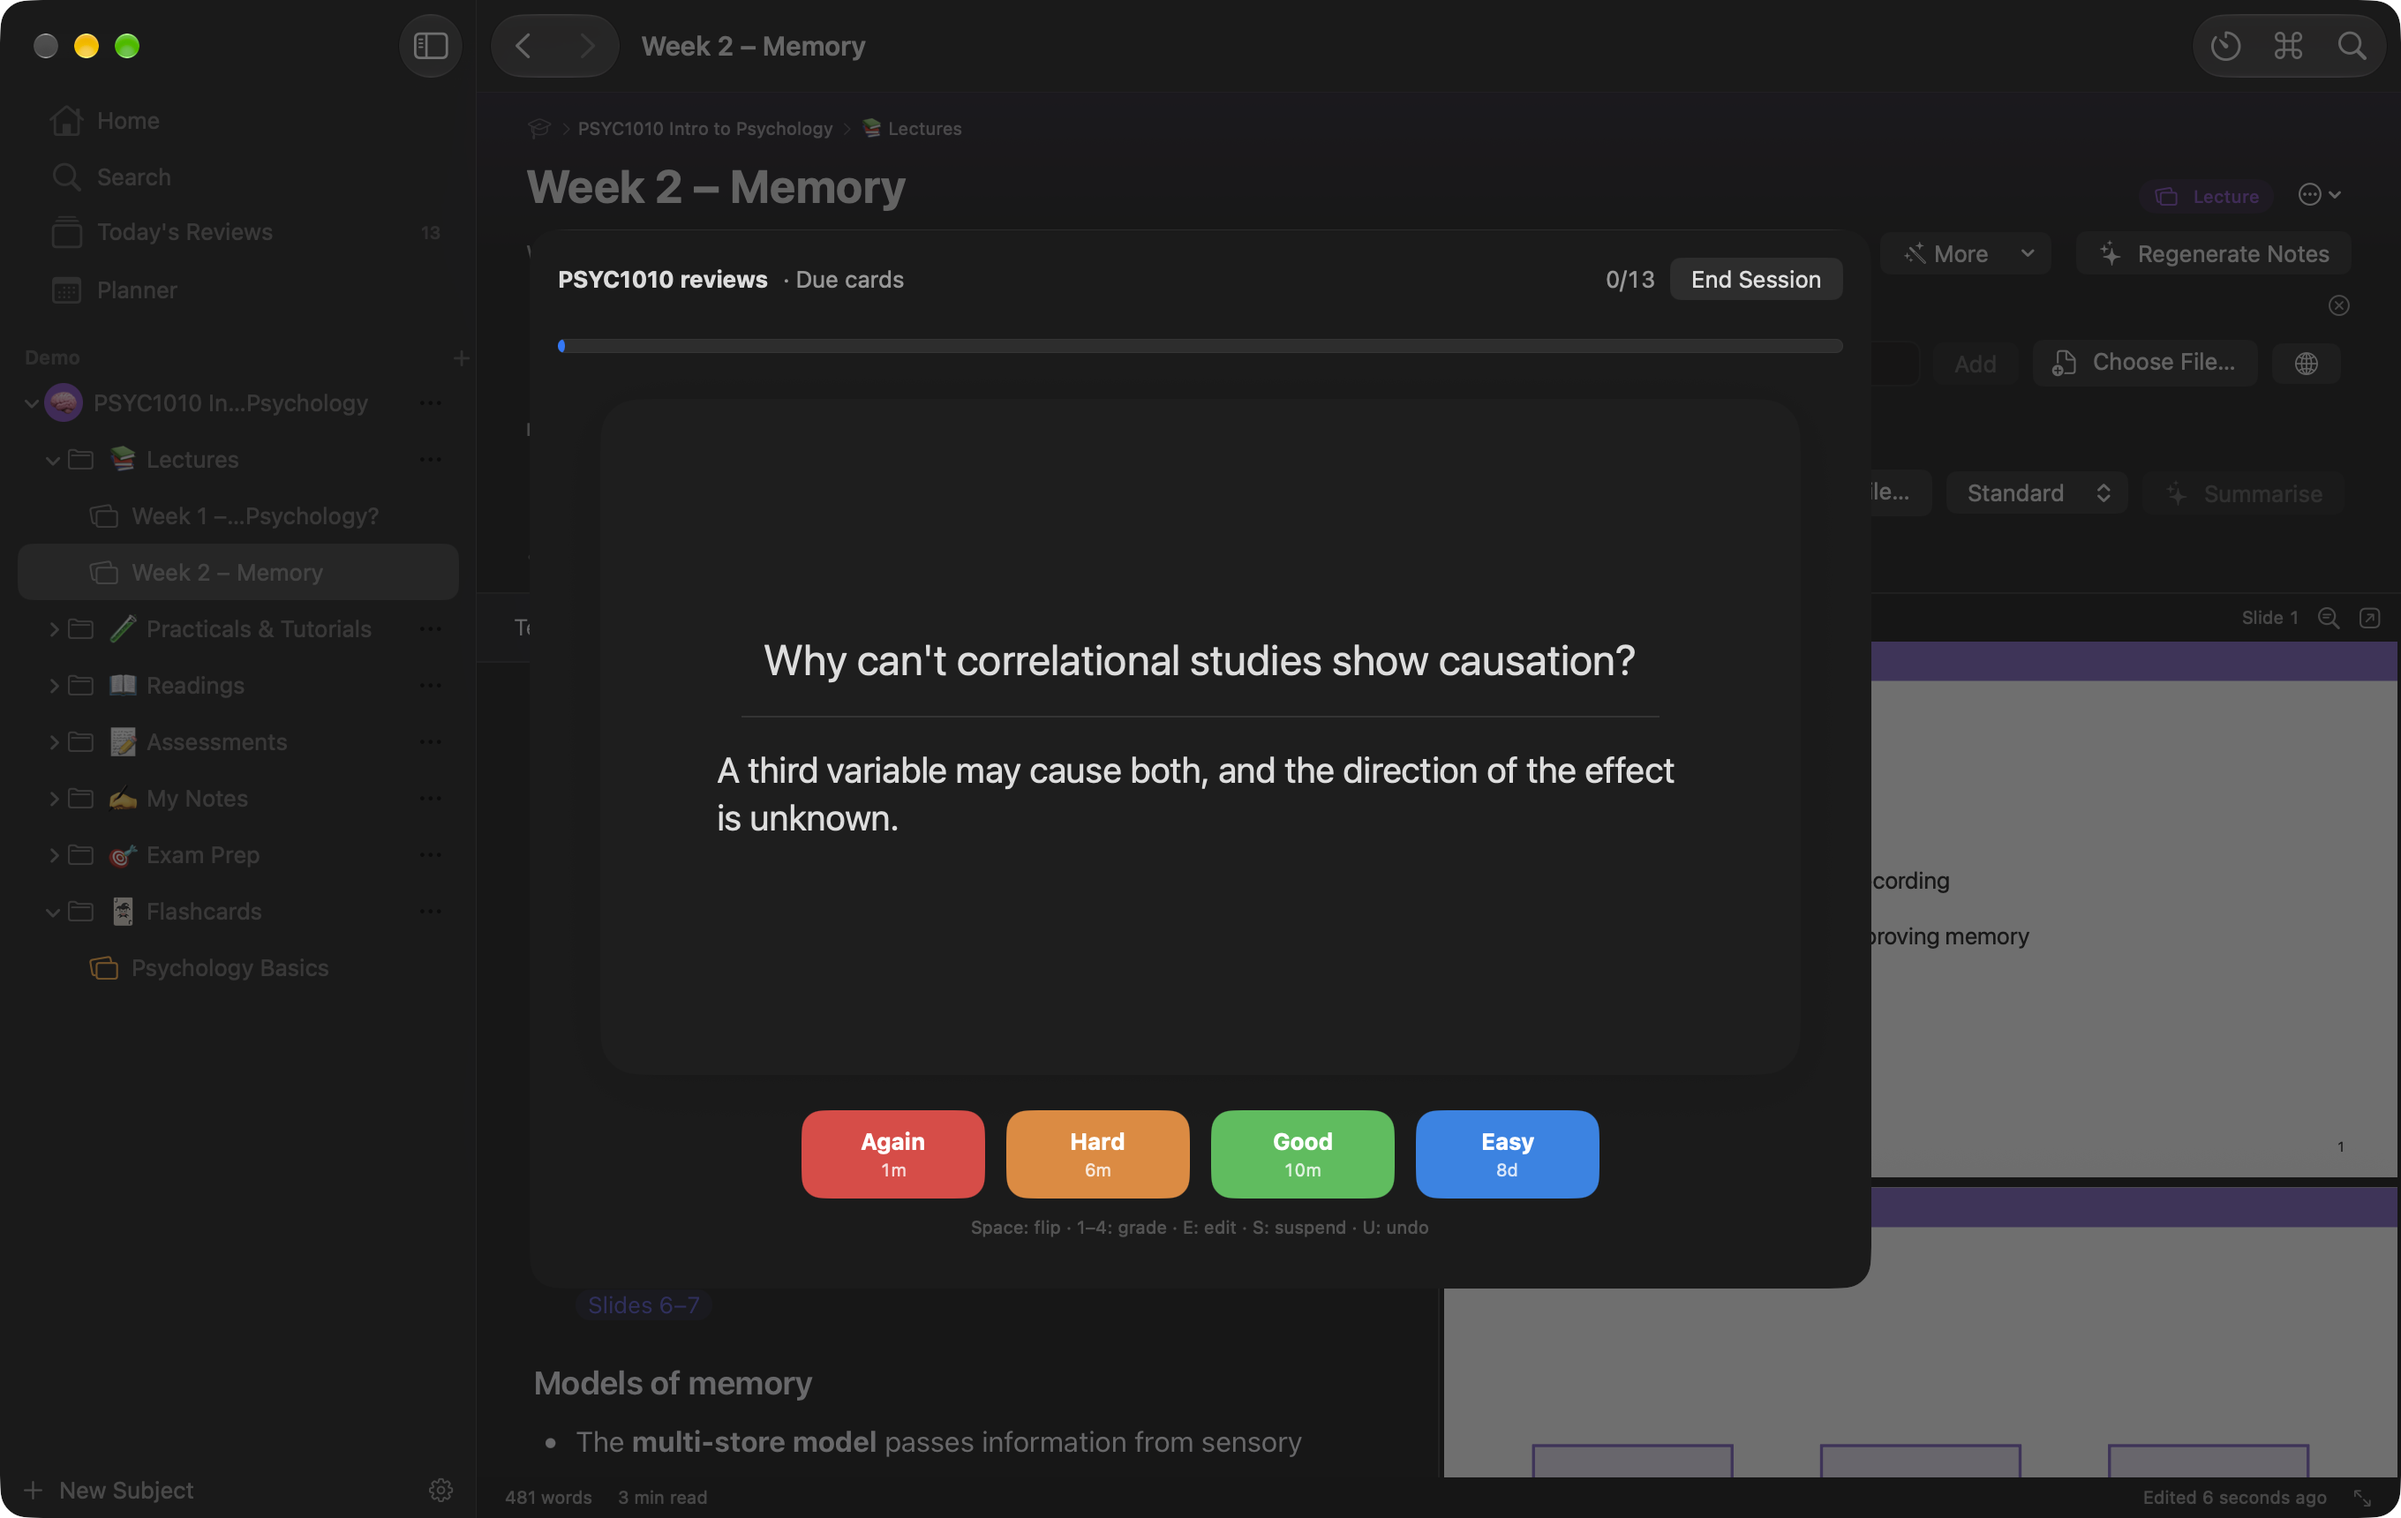
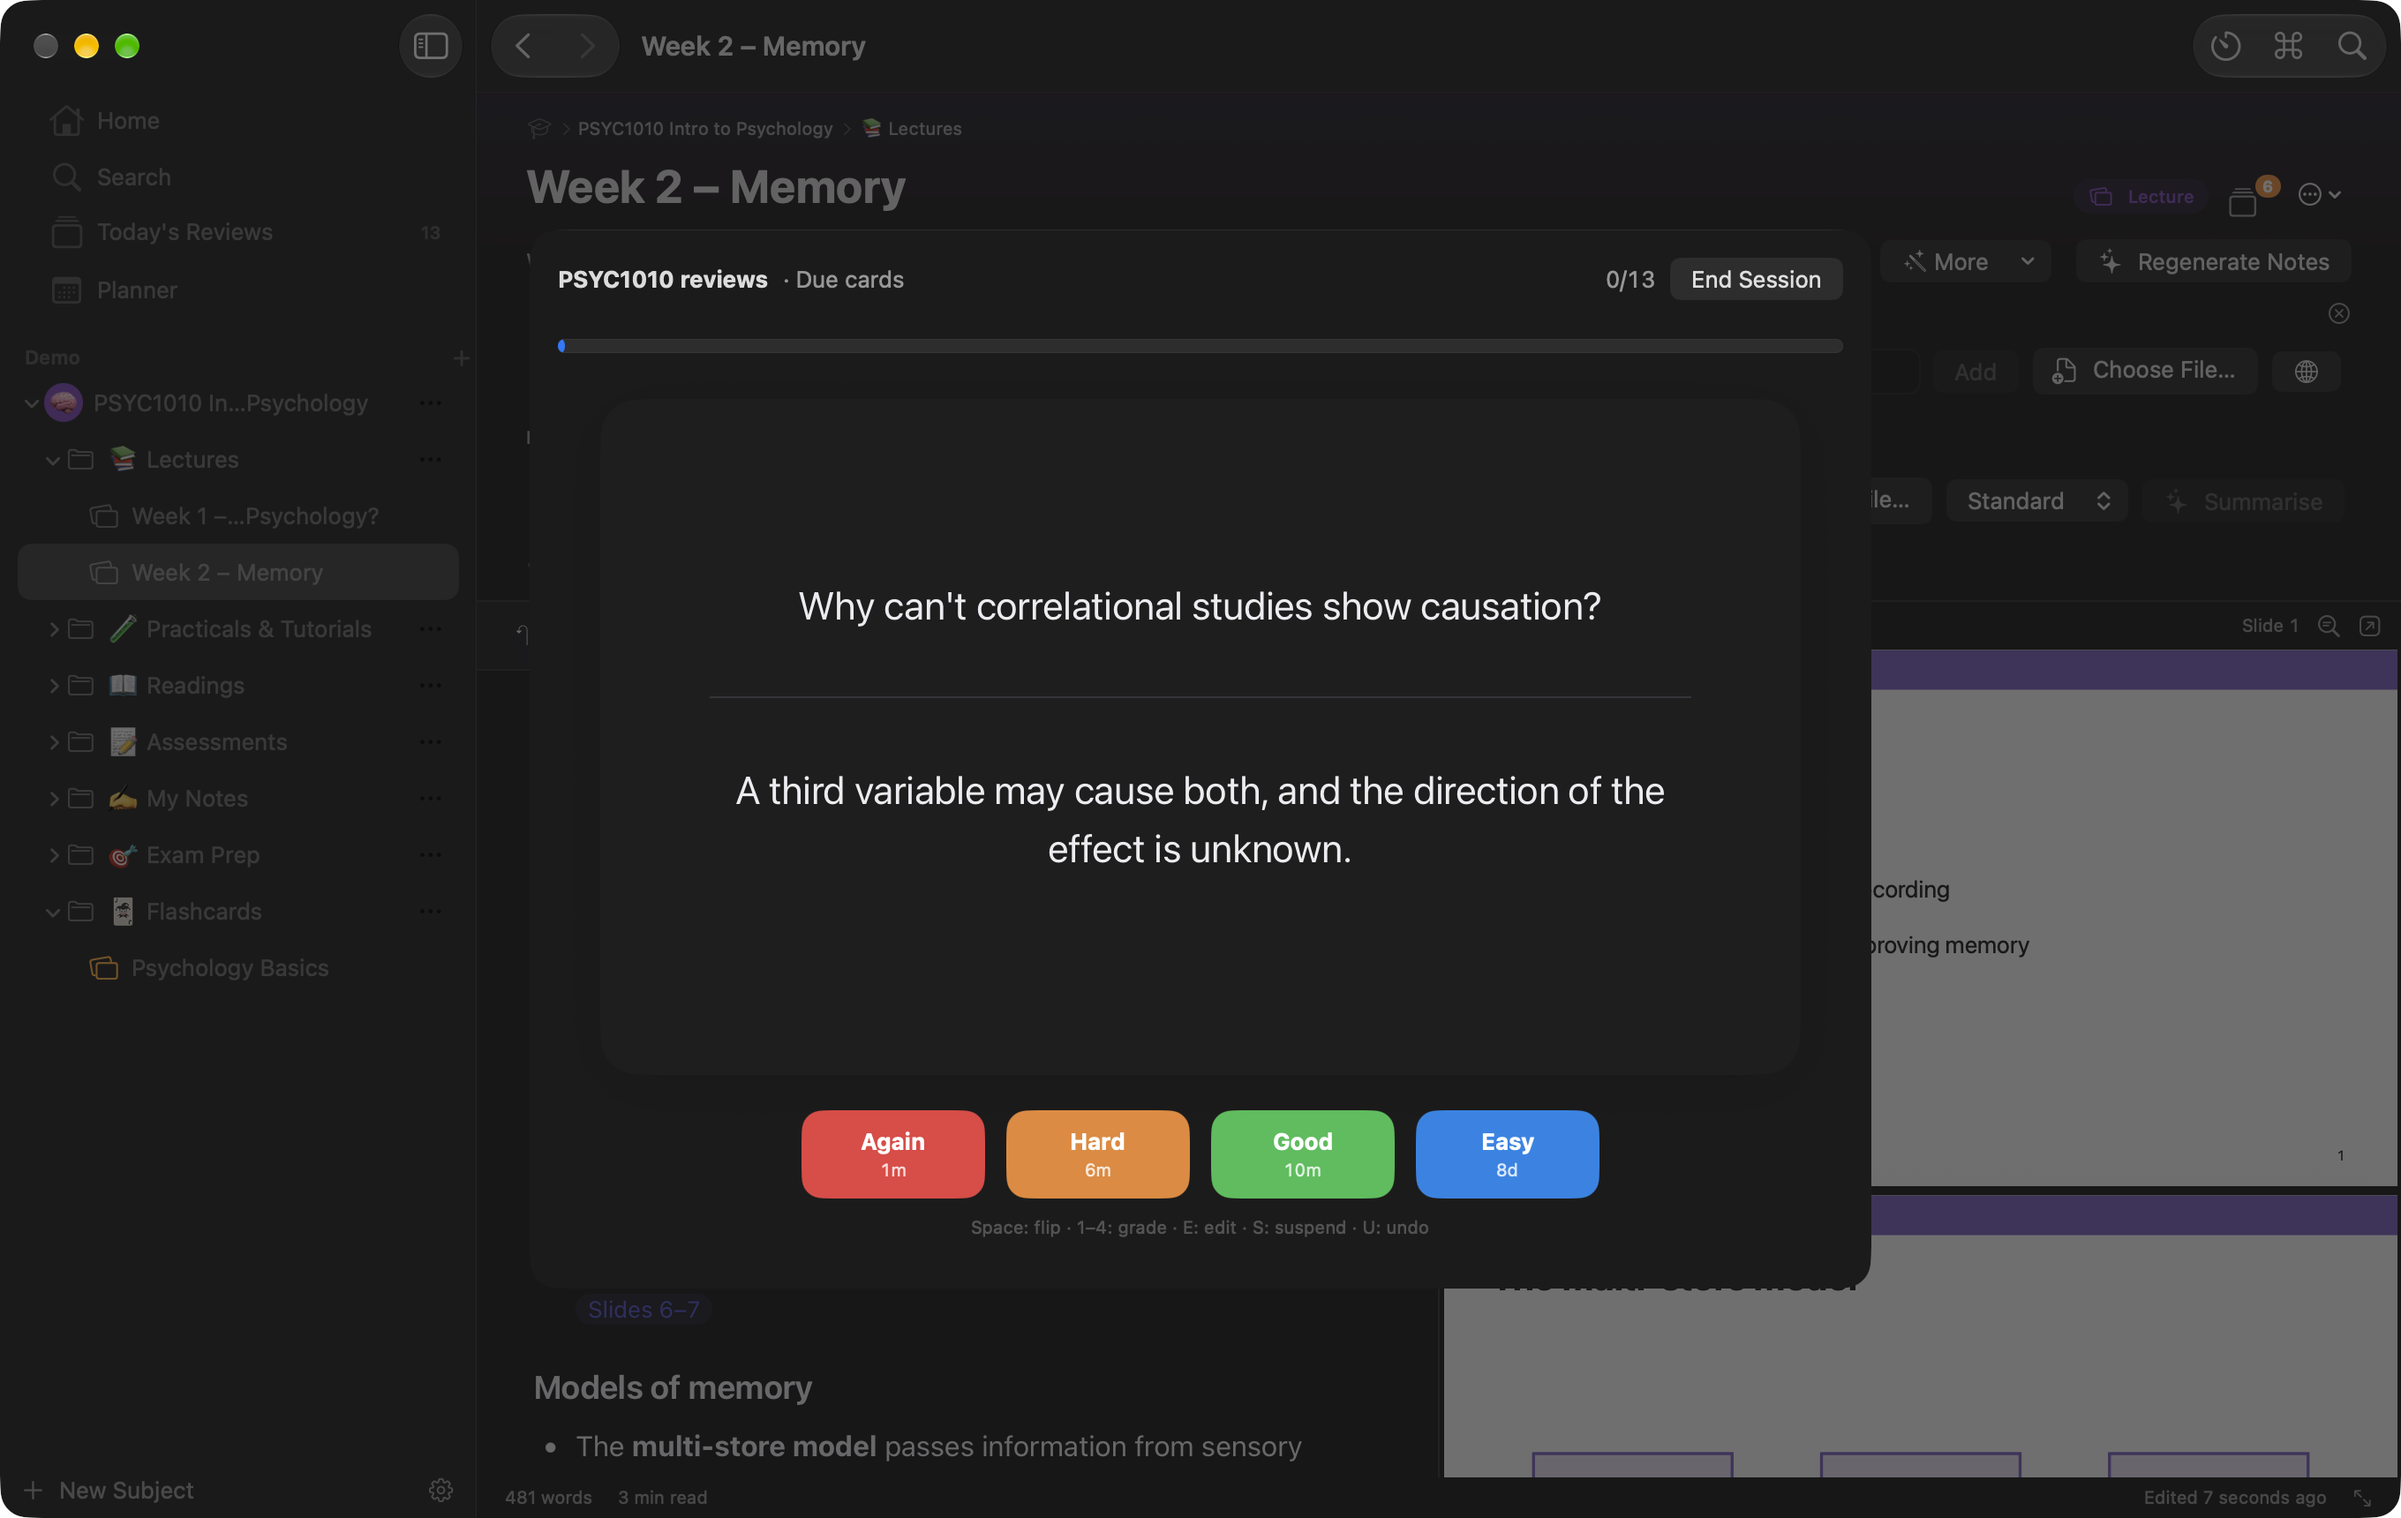
Release 1.4.0

diff --git a/release-notes/1.4.0.html b/release-notes/1.4.0.html
@@ -1,0 +1,4 @@
+<!doctype html><html><head><meta charset="utf-8"><title>Lectern 1.4.0</title>
+<style>body{font:13px -apple-system,sans-serif;margin:16px;color:#222}h2{margin:0 0 4px}h3{margin:14px 0 4px;color:#7a5af0}
+li{margin:3px 0}@media (prefers-color-scheme:dark){body{color:#eee;background:#1e1e1e}}</style></head>
+<body><h2>Lectern 1.4.0</h2><p>Full-length summaries, subject PDF export, flashcard improvements, better editor, Planner upgrade</p><h3>Added</h3><ul><li>**Summaries of any length.** Notes, summaries, flashcards and quizzes now read the whole source in sections (map, merge, verify). Every slide must be covered by a specific note; missed slides get catch-up passes, and anything still missing is listed with the reason. Notes end with a coverage report.</li><li>Ollama: an explicit context size on every request (safe for this Mac&#x27;s memory, adjustable in Settings → AI), streaming, diagrams read by an installed vision model or noted as unreadable.</li><li>Resumable AI jobs: finished sections are saved, long jobs run in the background with a sidebar progress ring, an estimated time left, and a notification.</li><li>Settings → AI: Model advisor, a benchmark that compares installed models, and a model choice for each task.</li><li>Export a subject or folder as one PDF: choose and reorder pages, cover, contents with page numbers, bookmarks, header and footer, flashcard tables, glossary, assessments, attached PDFs as appendices, live preview. Also Markdown (zip).</li><li>Flashcards linked to pages by a stable page ID: a cards button with badge at the top right of every page (⇧⌘K), a side panel, a Flashcards section on subject pages and &quot;Flashcards in This Folder&quot;.</li><li>Rich-text flashcards with auto-growing fields and a live preview; long card faces scroll and scale gently when studying.</li><li>Editor: a floating formatting menu, a fuller fixed toolbar, fonts, alignment, superscript and subscript, block handles with drag and a block menu, a grouped &quot;/&quot; menu with recents, columns, table of contents, dates, images with size, caption and alignment, code blocks with a language picker and copy button, maths editing with live preview, callouts with emoji and colour.</li><li>Planner: semester setup (with Macquarie&#x27;s 2026 dates), week numbers, class timetable with .ics import, tasks with natural-language quick add and recurrence, assessment milestones and behind-schedule warnings, exam details, Plan My Week, I&#x27;m Behind, exam revision planning, Day/Week/Month/Semester/Agenda views, workload and clash warnings, weekly summary and review, Today on Home, class/task/milestone/study notifications with snooze and quiet hours, two-way Calendar sync, Reminders sync, PDF and .ics export.</li><li>What&#x27;s New screen.</li></ul><h3>Changed</h3><ul><li>Search starts at the top of the window, groups results by subject, shows where each result lives, works from the keyboard, and opens pages at the match. All screens now start at the top.</li><li>The command palette moved from ⌘K to ⇧⌘P (⌘K is now Link). Back and Forward moved to ⌃⌘← and ⌃⌘→ (⌘[ and ⌘] now outdent and indent).</li></ul><h3>Fixed</h3><ul><li>Long sources are no longer cut off (&quot;only the first part was used&quot;).</li><li>Results of AI jobs are no longer lost if you move to another page while they run.</li></ul></body></html>

diff --git a/README.md b/README.md
@@ -13,27 +13,33 @@ and quizzes, plan your week and get advice for each subject. Everything is saved
 </p>
 
 ## Screenshots
-| Home dashboard | A subject and its Study Coach | Flashcard review |
+| The new editor and a page's flashcards | Planner week view | Export a subject as one PDF |
+| --- | --- | --- |
+| ![Floating formatting menu and the page flashcard panel](screenshots/5-editor-and-cards.png) | ![Planner week view](screenshots/6-planner.png) | ![Export sheet](screenshots/7-export.png) |
+
+| Home dashboard | A subject, with its Flashcards section | Flashcard review |
 | --- | --- | --- |
 | ![Home dashboard](screenshots/1-dashboard.png) | ![Subject home](screenshots/2-subject.png) | ![Flashcard review](screenshots/4-flashcards.png) |
 
 ## Features
-- **Slides → notes.** Paste a link to a PDF, PowerPoint, Word file, web page or Google Slides, sign in to iLearn once in Lectern's built-in browser, or just drop the file in. Claude writes structured notes: an overview, learning objectives, topic notes with clickable **slide citations**, diagrams explained, key terms, a summary, likely exam questions and things to ask your lecturer. You see the estimated cost first.
+- **Slides → notes, any length.** Paste a link to a PDF, PowerPoint, Word file, web page or Google Slides, sign in to iLearn once in Lectern's built-in browser, or just drop the file in. Lectern reads every slide in sections and writes structured notes: an overview, learning objectives, topic notes with clickable **slide citations**, diagrams explained, key terms, a summary, likely exam questions and things to ask your lecturer. A coverage report shows every slide was covered, and lists any that weren't. It runs in the background and can resume if it's interrupted.
+- **Claude or free local models.** Use your own Claude key, or Ollama on your Mac. The Model advisor recommends the best installed model for your Mac, and you can choose a different model for each task.
 - **Slides beside your notes.** Click a slide to see which notes came from it, or click a citation to jump to the slide.
-- **A friendly editor.** Type “/” for headings, checklists, callouts, toggles, tables, code and maths (KaTeX); “[[” to link pages; select text to **Explain**, **Simplify** or **Make a flashcard**. Pages are Markdown, so they open in any editor.
-- **Flashcards that stick.** Basic, reversible, cloze and image-occlusion cards scheduled with **FSRS**, the modern spaced-repetition algorithm. Daily reviews, cram and weak-card modes, stats, CSV and Anki export.
+- **An editor like Notion and Google Docs.** Select text for a formatting menu (type, size, colour, highlight, alignment, links, AI). An optional toolbar, drag handles on every block, and a “/” menu with tables, toggles, callouts, columns, code, maths (KaTeX), dates and a table of contents. Pages stay Markdown, so they open in any editor.
+- **Flashcards that stick.** Rich-text basic, reversible, cloze and image-occlusion cards scheduled with **FSRS**, the modern spaced-repetition algorithm. Every page has its own cards beside your notes, and each subject shows them all by folder, with strength, due counts and “Study selected”. Daily reviews, cram and weak-card modes, stats, CSV and Anki export.
 - **Quizzes and practice exams** from any page, folder or subject, with written answers marked against your notes.
 - **Study Coach** for every subject: what to focus on this week, weak topics, how to prepare for the next assessment, techniques that work, and “Plan my week”. **Ask about this subject** answers from your own notes and slides, with sources.
-- **Planner, timer and grades:** a week/month planner (optional Apple Calendar sync), a Pomodoro timer in the menu bar that logs study time, and a grade calculator with HD/D/Cr/P/F bands.
-- **Find anything:** instant search across pages, slide text, recording transcripts and flashcards, plus a command palette (⌘K).
+- **A planner built for semesters.** Week numbers (Macquarie's dates built in), your class timetable with .ics import, tasks with natural-language quick add, assessment milestones, **Plan My Week**, an “I'm behind” catch-up, exam revision plans, Day, Week, Month, Semester and Agenda views, reminders, and optional Apple Calendar and Reminders sync.
+- **Timer and grades:** a Pomodoro timer in the menu bar that logs study time, and a grade calculator with HD/D/Cr/P/F bands.
+- **Find anything:** instant search across pages, slide text, recording transcripts and flashcards, plus a command palette (⇧⌘P).
 - **Yours, as files:** subjects are folders and pages are Markdown, in a University folder you choose. Put it in iCloud Drive or OneDrive for automatic backup. Version history keeps 50 versions of every page, and deleted items go to the Trash.
 - Lecture recordings can be **transcribed on your Mac** and used with the slides (for personal study only, per your university's rules).
-- Export to PDF, Markdown or HTML, print, or make a subject **study guide** PDF. Light and dark mode, keyboard shortcuts for everything, and VoiceOver labels throughout.
+- **Export a whole subject or folder as one PDF** with a cover, contents, bookmarks and page numbers; or export Markdown or HTML, print, or make a **study guide** PDF. Light and dark mode, keyboard shortcuts for everything, and VoiceOver labels throughout.
 
 ## Requirements
 - A Mac with Apple Silicon (M1 or later)
 - macOS 14 Sonoma or later
-- AI features need your own Claude API key from [platform.claude.com](https://platform.claude.com) (a lecture's notes usually cost a few cents). Everything else works without one, and offline.
+- AI features need either your own Claude API key from [platform.claude.com](https://platform.claude.com) (a lecture's notes usually cost a few cents) or [Ollama](https://ollama.com) (free, runs on your Mac). Everything else works without AI, and offline.
 
 ## Install
 1. [Download Lectern.dmg](https://github.com/MilkshakeSR/Lectern/releases/latest/download/Lectern.dmg) and open it.
@@ -47,7 +53,7 @@ Lectern checks for updates once a day and tells you when a new version is ready.
 
 ## Privacy
 Your notes, flashcards and quizzes stay in your University folder; the search index and page history stay on your Mac.
-**Only the content used for an AI action is sent to Anthropic, and only when you click it** (for example, a lecture's slides when you click Generate Notes), using your own API key, which is kept in your Keychain.
+**With Claude, only the content used for an AI action is sent to Anthropic, and only when you click it** (for example, a lecture's slides when you click Generate Notes), using your own API key, which is kept in your Keychain. With Ollama on your Mac, nothing leaves your Mac.
 Recordings are transcribed on-device. There are no analytics or tracking. Lectern also contacts the sites of links you paste, and GitHub to check for updates.
 
 **Academic integrity:** Lectern is for learning. It explains, quizzes and gives feedback, but won't write your assessments.
